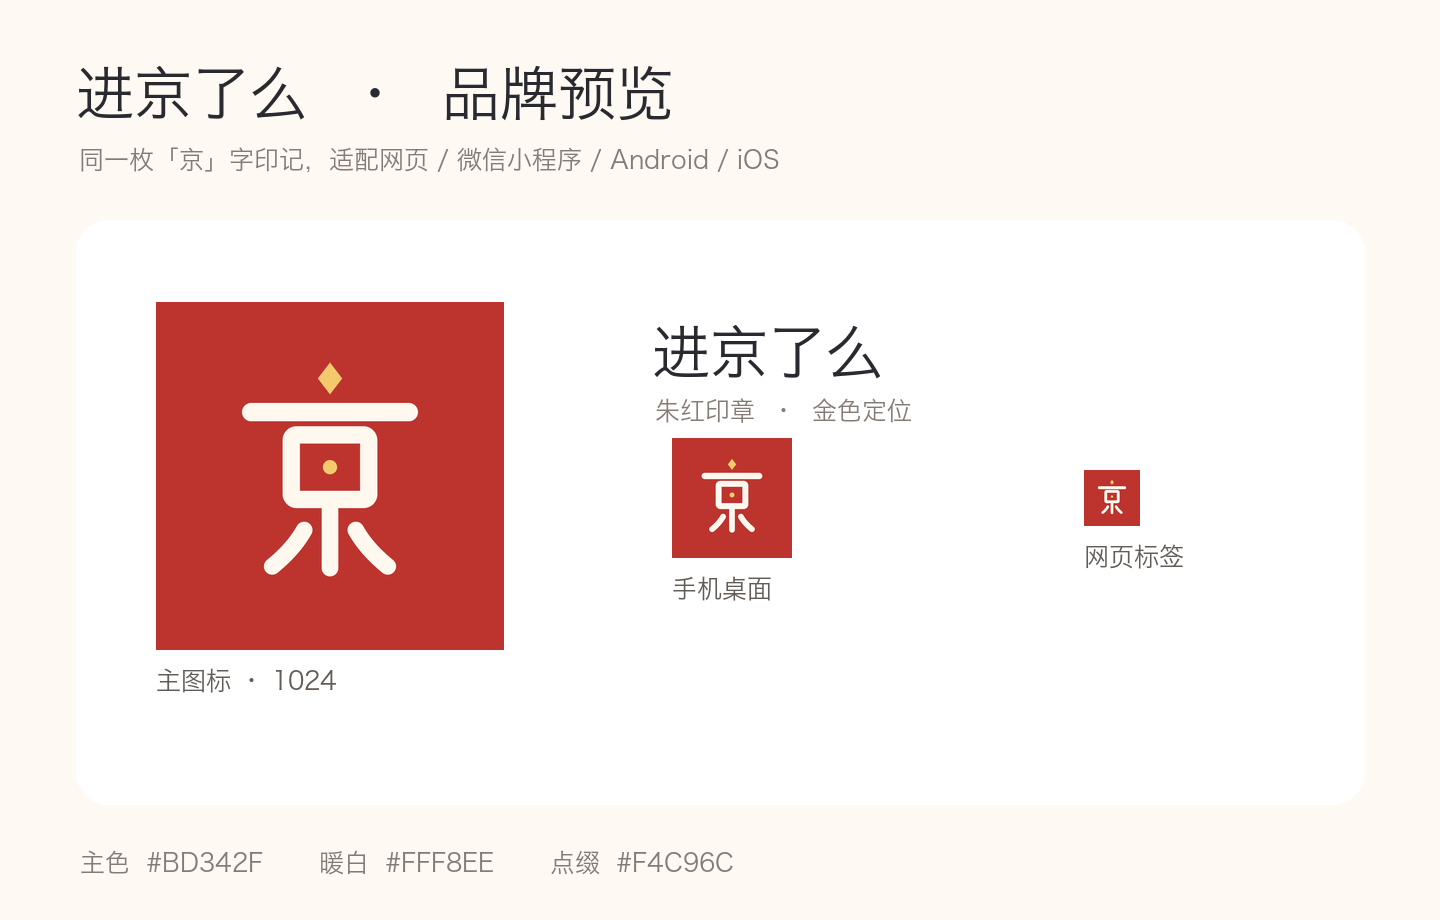
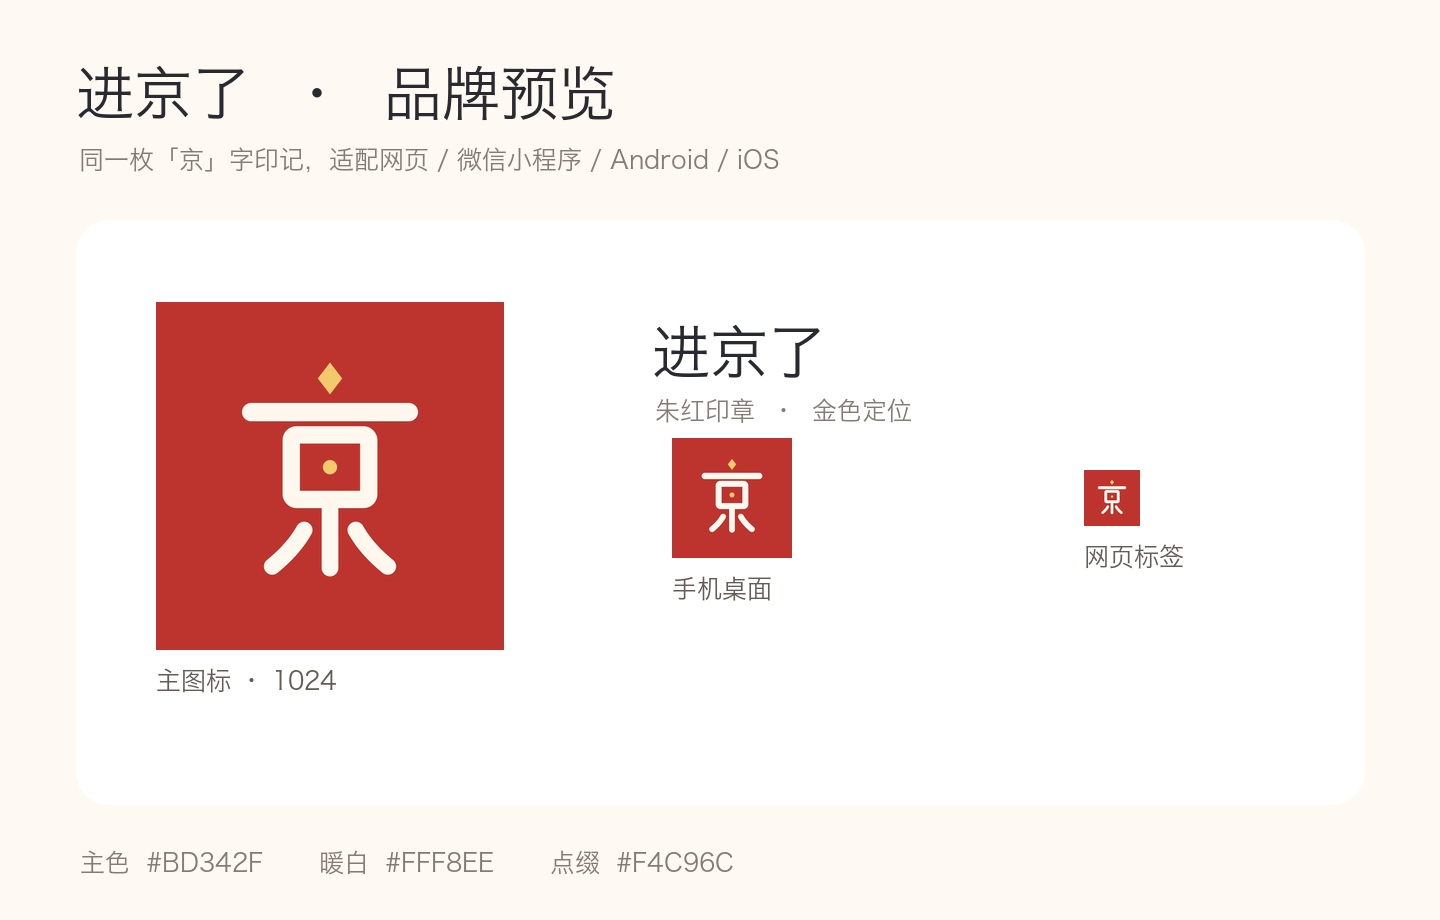
统一品牌为进京了并切换正式域名

Changed region(s): [[0.25, 0.0609, 0.4688, 0.1522], [0.5625, 0.3652, 0.625, 0.4261], [0.1562, 0.0913, 0.2188, 0.1522]]

diff --git a/miniprogram/jinjinglem/tests/jinjing-api.test.js b/miniprogram/jinjinglem/tests/jinjing-api.test.js
@@ -33,7 +33,7 @@ test("loads every page, keeps only mapped GCJ-02 points and deduplicates ids", a
 test("posts a comment to the public camera API", async () => {
   global.wx = {
     request(options) {
-      assert.equal(options.url, "https://jinjinglem.yixiangshe.com/api/v1/cameras/42/comments");
+      assert.equal(options.url, "https://jinjingle.yixiangshe.com/api/v1/cameras/42/comments");
       assert.equal(options.method, "POST");
       assert.deepEqual(options.data, { nickname: "司机", content: "仍在使用" });
       options.success({ statusCode: 201, data: { id: 7 } });
@@ -52,7 +52,7 @@ test("resolves approved report image URLs for mini program display", async () =>
     }
   };
   const images = await api.cameraImages(42);
-  assert.equal(images[0].url, "https://jinjinglem.yixiangshe.com/api/v1/cameras/42/reported-image");
+  assert.equal(images[0].url, "https://jinjingle.yixiangshe.com/api/v1/cameras/42/reported-image");
   assert.equal(images[1].url, "https://example.com/camera.jpg");
 });
 
@@ -66,7 +66,7 @@ test("rejects failed HTTP responses instead of treating them as data", async () 
 test("sends route planning through the own backend and accepts pending response", async () => {
   global.wx = {
     request(options) {
-      assert.equal(options.url, "https://jinjinglem.yixiangshe.com/api/v1/routes/plan");
+      assert.equal(options.url, "https://jinjingle.yixiangshe.com/api/v1/routes/plan");
       assert.equal(options.method, "POST");
       assert.equal(options.timeout, 180000);
       assert.equal(options.data.licence, 3);
@@ -79,7 +79,7 @@ test("sends route planning through the own backend and accepts pending response"
 test("uploads a camera report screenshot to the public review queue", async () => {
   global.wx = {
     uploadFile(options) {
-      assert.equal(options.url, "https://jinjinglem.yixiangshe.com/api/v1/camera-reports");
+      assert.equal(options.url, "https://jinjingle.yixiangshe.com/api/v1/camera-reports");
       assert.equal(options.filePath, "/tmp/camera.png");
       assert.equal(options.name, "screenshot");
       assert.deepEqual(options.formData, { nickname: "司机", content: "路口南向北" });

diff --git a/backend/src/main/resources/static/index.html b/backend/src/main/resources/static/index.html
@@ -4,7 +4,7 @@
   <meta charset="utf-8">
   <meta name="viewport" content="width=device-width, initial-scale=1">
   <meta name="theme-color" content="#fffaf6">
-  <title>进京了么 · 探头分布图</title>
+  <title>进京了 · 探头分布图</title>
   <meta name="description" content="查询北京进京探头的位置、类型与详情。">
   <link rel="icon" type="image/svg+xml" href="/brand/favicon.svg">
   <link rel="apple-touch-icon" href="/brand/apple-touch-icon.png">
@@ -14,13 +14,13 @@
 <body class="map-only">
   <div class="site-shell">
     <header class="site-header">
-      <a class="brand" href="/" aria-label="进京了么首页"><span class="brand-icon"><img src="/brand/logo-mark.svg" alt="" width="39" height="39"></span><span><strong>进京了么</strong><small>位置查询</small></span></a>
+      <a class="brand" href="/" aria-label="进京了首页"><span class="brand-icon"><img src="/brand/logo-mark.svg" alt="" width="39" height="39"></span><span><strong>进京了</strong><small>位置查询</small></span></a>
       <form id="searchForm" class="search-form header-search"><label class="sr-only" for="searchInput">搜索探头位置</label><span class="search-icon" aria-hidden="true">⌕</span><input id="searchInput" type="search" placeholder="搜索道路、路口或区域" autocomplete="off"><button type="submit">搜索</button></form>
       <span class="header-note"><i></i>数据持续更新</span>
     </header>
 
     <section class="intro-strip">
-      <div><span class="section-kicker">北京 · 探头位置</span><h1>进京了么 · 探头分布图</h1><p>按地点查找探头，查看位置与来源记录。</p></div>
+      <div><span class="section-kicker">北京 · 探头位置</span><h1>进京了 · 探头分布图</h1><p>按地点查找探头，查看位置与来源记录。</p></div>
       <div class="intro-stats"><span>已收录探头</span><strong id="totalCount">—</strong><small>条可查询记录</small></div>
     </section>
 

diff --git a/backend/src/main/resources/static/login.html b/backend/src/main/resources/static/login.html
@@ -3,14 +3,14 @@
 <head>
   <meta charset="utf-8">
   <meta name="viewport" content="width=device-width, initial-scale=1">
-  <title>管理员登录 · 进京了么</title>
+  <title>管理员登录 · 进京了</title>
   <link rel="icon" type="image/svg+xml" href="/brand/favicon.svg">
   <link rel="stylesheet" href="/login.css">
   <script src="/login.js" defer></script>
 </head>
 <body>
   <main class="login-layout">
-    <section class="intro"><img src="/brand/logo-mark.svg" alt="进京了么" width="64" height="64"><p class="eyebrow">进京了么 · 管理后台</p><h1>探头数据，统一管理。</h1><p>在一个后台查看探头、抓取任务与审核记录。</p><a href="/">返回公开地图 <span aria-hidden="true">↗</span></a></section>
+    <section class="intro"><img src="/brand/logo-mark.svg" alt="进京了" width="64" height="64"><p class="eyebrow">进京了 · 管理后台</p><h1>探头数据，统一管理。</h1><p>在一个后台查看探头、抓取任务与审核记录。</p><a href="/">返回公开地图 <span aria-hidden="true">↗</span></a></section>
     <section class="login-card" aria-labelledby="loginTitle"><p class="eyebrow">管理员访问</p><h2 id="loginTitle">登录后台</h2><p class="hint">使用现有的唯一管理员账号登录。</p><p id="loginMessage" class="message" role="alert" hidden></p>
       <form id="loginForm" action="/login" method="post"><label>账号<input name="username" autocomplete="username" required autofocus></label><label>密码<input name="password" type="password" autocomplete="current-password" required></label><input id="csrfToken" type="hidden" name="_csrf"><button id="loginButton" type="submit" disabled>登录管理后台</button></form>
     </section>

diff --git a/backend/src/main/resources/static/review.html b/backend/src/main/resources/static/review.html
@@ -3,7 +3,7 @@
 <head>
   <meta charset="utf-8">
   <meta name="viewport" content="width=device-width, initial-scale=1">
-  <title>数据审核 · 进京了么</title>
+  <title>数据审核 · 进京了</title>
   <link rel="icon" type="image/svg+xml" href="/brand/favicon.svg">
   <link rel="apple-touch-icon" href="/brand/apple-touch-icon.png">
   <link rel="stylesheet" href="/sync.css">
@@ -13,7 +13,7 @@
   <script src="/review.js" defer></script>
 </head>
 <body>
-  <header class="header"><div class="header-inner"><a class="brand" href="/"><img src="/brand/logo-mark.svg" alt="" width="34" height="34"><span>进京了么</span></a><nav><a href="/">探头分布</a><a href="/manage.html?page=review">管理后台</a></nav></div></header>
+  <header class="header"><div class="header-inner"><a class="brand" href="/"><img src="/brand/logo-mark.svg" alt="" width="34" height="34"><span>进京了</span></a><nav><a href="/">探头分布</a><a href="/manage.html?page=review">管理后台</a></nav></div></header>
   <main>
     <section class="heading"><div><p class="eyebrow">人工审核</p><h1>抓取数据审核</h1><p>先查看变化并排除不采纳的记录，确认后才更新统一探头数据库。</p></div><button id="approveBatch" class="primary" type="button" disabled>审核通过并入库</button></section>
     <div id="notice" role="status" aria-live="polite" hidden></div>

diff --git a/backend/src/main/resources/static/reports.html b/backend/src/main/resources/static/reports.html
@@ -3,7 +3,7 @@
 <head>
   <meta charset="utf-8">
   <meta name="viewport" content="width=device-width, initial-scale=1">
-  <title>用户上报审核 · 进京了么</title>
+  <title>用户上报审核 · 进京了</title>
   <link rel="icon" type="image/svg+xml" href="/brand/favicon.svg">
   <link rel="stylesheet" href="/sync.css">
   <link rel="stylesheet" href="/reports.css">
@@ -12,7 +12,7 @@
   <script src="/reports.js" defer></script>
 </head>
 <body>
-  <header class="header"><div class="header-inner"><a class="brand" href="/"><img src="/brand/logo-mark.svg" alt="" width="34" height="34"><span>进京了么</span></a><nav><a href="/">探头分布</a><a href="/manage.html?page=reports">管理后台</a></nav></div></header>
+  <header class="header"><div class="header-inner"><a class="brand" href="/"><img src="/brand/logo-mark.svg" alt="" width="34" height="34"><span>进京了</span></a><nav><a href="/">探头分布</a><a href="/manage.html?page=reports">管理后台</a></nav></div></header>
   <main>
     <section class="heading"><div><p class="eyebrow">人工核实</p><h1>用户上报审核</h1><p>上报内容先独立保存。补齐探头字段并确认坐标后，才会写入统一探头表。</p></div><button id="refresh" class="ghost" type="button">刷新列表</button></section>
     <p id="notice" role="status" aria-live="polite" hidden></p>

diff --git a/backend/src/main/resources/static/manage.html b/backend/src/main/resources/static/manage.html
@@ -3,7 +3,7 @@
 <head>
   <meta charset="utf-8">
   <meta name="viewport" content="width=device-width, initial-scale=1">
-  <title>管理后台 · 进京了么</title>
+  <title>管理后台 · 进京了</title>
   <link rel="icon" type="image/svg+xml" href="/brand/favicon.svg">
   <link rel="stylesheet" href="/manage.css">
   <script src="/admin-security.js" defer></script>
@@ -11,7 +11,7 @@
 </head>
 <body>
   <div class="shell">
-    <aside class="sidebar"><a class="brand" href="/manage.html"><img src="/brand/logo-mark.svg" alt="" width="42" height="42"><span><strong>进京了么</strong><small>管理后台</small></span></a><div class="side-caption">工作台</div><nav aria-label="后台页面">
+    <aside class="sidebar"><a class="brand" href="/manage.html"><img src="/brand/logo-mark.svg" alt="" width="42" height="42"><span><strong>进京了</strong><small>管理后台</small></span></a><div class="side-caption">工作台</div><nav aria-label="后台页面">
       <a data-page="map" href="/manage.html?page=map"><span class="nav-icon" aria-hidden="true">⌖</span>探头分布</a>
       <a data-page="cameras" href="/manage.html?page=cameras"><span class="nav-icon" aria-hidden="true">▦</span>探头管理</a>
       <a data-page="sync" href="/manage.html?page=sync"><span class="nav-icon" aria-hidden="true">⟳</span>定时抓取</a>

diff --git a/miniprogram/jinjinglem/miniprogram/source/pages/profile/profile.js b/miniprogram/jinjinglem/miniprogram/source/pages/profile/profile.js
@@ -59,16 +59,16 @@ Page({
       content: "在首页搜索道路或路口，点击地图上的探头可查看详情和发表评论。路线规划页可选择起点、终点及途经点。地图点位仅供参考，实际通行请以现场信息为准。" });
   },
   openAbout: function() {
-    wx.showModal({ title: "关于进京了么", showCancel: false,
-      content: "进京了么提供探头位置查询与路线规划。数据持续更新，详情请以现场信息为准。网站：jinjinglem.yixiangshe.com" });
+    wx.showModal({ title: "关于进京了", showCancel: false,
+      content: "进京了提供探头位置查询与路线规划。数据持续更新，详情请以现场信息为准。网站：jinjingle.yixiangshe.com" });
   },
   showUnavailable: function() {
     wx.showToast({ title: "功能暂不可用", icon: "none" });
   },
   onShareAppMessage: function() {
-    return { title: "进京了么 · 探头分布与路线规划", path: "/pages/index/index" };
+    return { title: "进京了 · 探头分布与路线规划", path: "/pages/index/index" };
   },
   onShareTimeline: function() {
-    return { title: "进京了么 · 探头分布与路线规划" };
+    return { title: "进京了 · 探头分布与路线规划" };
   }
 });

diff --git a/backend/src/main/resources/static/admin.html b/backend/src/main/resources/static/admin.html
@@ -3,7 +3,7 @@
 <head>
   <meta charset="utf-8">
   <meta name="viewport" content="width=device-width, initial-scale=1">
-  <title>探头管理 · 进京了么</title>
+  <title>探头管理 · 进京了</title>
   <link rel="icon" type="image/svg+xml" href="/brand/favicon.svg">
   <link rel="apple-touch-icon" href="/brand/apple-touch-icon.png">
   <link rel="stylesheet" href="/app.css">
@@ -14,7 +14,7 @@
 <body>
   <div class="app-shell">
     <header class="topbar">
-      <div class="brand"><span class="brand-mark"><img src="/brand/logo-mark.svg" alt="" width="34" height="34"></span><span>进京了么<span class="brand-sub">数据管理台</span></span></div>
+      <div class="brand"><span class="brand-mark"><img src="/brand/logo-mark.svg" alt="" width="34" height="34"></span><span>进京了<span class="brand-sub">数据管理台</span></span></div>
       <div class="topbar-right"><a href="/manage.html?page=cameras" style="color:#2e7478;font-weight:700;text-decoration:none;margin-right:18px">管理后台</a><a href="/" style="color:#2e7478;font-weight:700;text-decoration:none;margin-right:18px">返回探头分布图</a><span class="live-dot"></span>数据服务已连接</div>
     </header>
 

diff --git a/backend/src/main/resources/static/sync.html b/backend/src/main/resources/static/sync.html
@@ -3,7 +3,7 @@
 <head>
   <meta charset="utf-8">
   <meta name="viewport" content="width=device-width, initial-scale=1">
-  <title>定时抓取 · 进京了么</title>
+  <title>定时抓取 · 进京了</title>
   <link rel="icon" type="image/svg+xml" href="/brand/favicon.svg">
   <link rel="apple-touch-icon" href="/brand/apple-touch-icon.png">
   <link rel="stylesheet" href="/sync.css">
@@ -14,7 +14,7 @@
 <body>
   <header class="header">
     <div class="header-inner">
-      <a class="brand" href="/"><img src="/brand/logo-mark.svg" alt="" width="34" height="34"><span>进京了么</span></a>
+      <a class="brand" href="/"><img src="/brand/logo-mark.svg" alt="" width="34" height="34"><span>进京了</span></a>
       <nav><a href="/">探头分布</a><a href="/manage.html?page=sync">管理后台</a></nav>
     </div>
   </header>

diff --git a/miniprogram/jinjinglem/miniprogram/source/pages/index/index.js b/miniprogram/jinjinglem/miniprogram/source/pages/index/index.js
@@ -220,6 +220,6 @@ Page({
   membership: function() { this.showUnavailable(); },
   jjz: function() { this.showUnavailable(); },
   mineSetting: function() { wx.navigateTo({ url: "/pages/profile/profile" }); },
-  onShareAppMessage: function() { return { title: "进京了么 · 探头分布", path: "/pages/index/index" }; },
-  onShareTimeline: function() { return { title: "进京了么 · 探头分布" }; }
+  onShareAppMessage: function() { return { title: "进京了 · 探头分布", path: "/pages/index/index" }; },
+  onShareTimeline: function() { return { title: "进京了 · 探头分布" }; }
 });

diff --git a/miniprogram/jinjinglem/tests/route-page.test.js b/miniprogram/jinjinglem/tests/route-page.test.js
@@ -10,7 +10,7 @@ test("route page picks endpoints and draws the backend route", async () => {
     createMapContext() { return { includePoints(options) { included = options.points.length; } }; },
     showToast() {},
     request(options) {
-      assert.equal(options.url, "https://jinjinglem.yixiangshe.com/api/v1/routes/plan");
+      assert.equal(options.url, "https://jinjingle.yixiangshe.com/api/v1/routes/plan");
       assert.equal(options.data.startPoint.latitude, 39.9);
       assert.equal(options.data.endPoint.longitude, 116.5);
       options.success({ statusCode: 200, data: {

diff --git a/miniprogram/jinjinglem/miniprogram/source/pages/comment/comment.js b/miniprogram/jinjinglem/miniprogram/source/pages/comment/comment.js
@@ -25,10 +25,10 @@ Page({
     submitting: false
   },
   onShareAppMessage: function() {
-    return { title: "进京了么 · 探头详情", path: "/pages/comment/comment?id=" + this.data.id };
+    return { title: "进京了 · 探头详情", path: "/pages/comment/comment?id=" + this.data.id };
   },
   onShareTimeline: function() {
-    return { title: "进京了么 · 探头详情", query: "id=" + this.data.id };
+    return { title: "进京了 · 探头详情", query: "id=" + this.data.id };
   },
   onLoad: function(options) {
     var id = Number(options.id);
